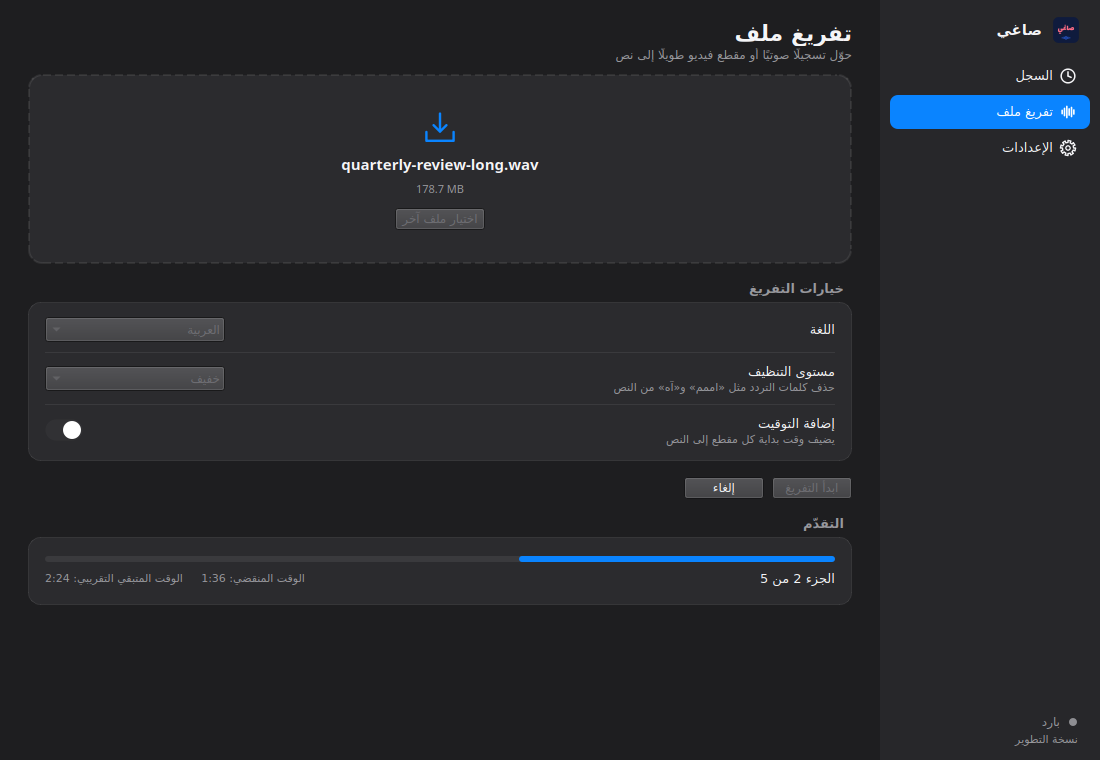
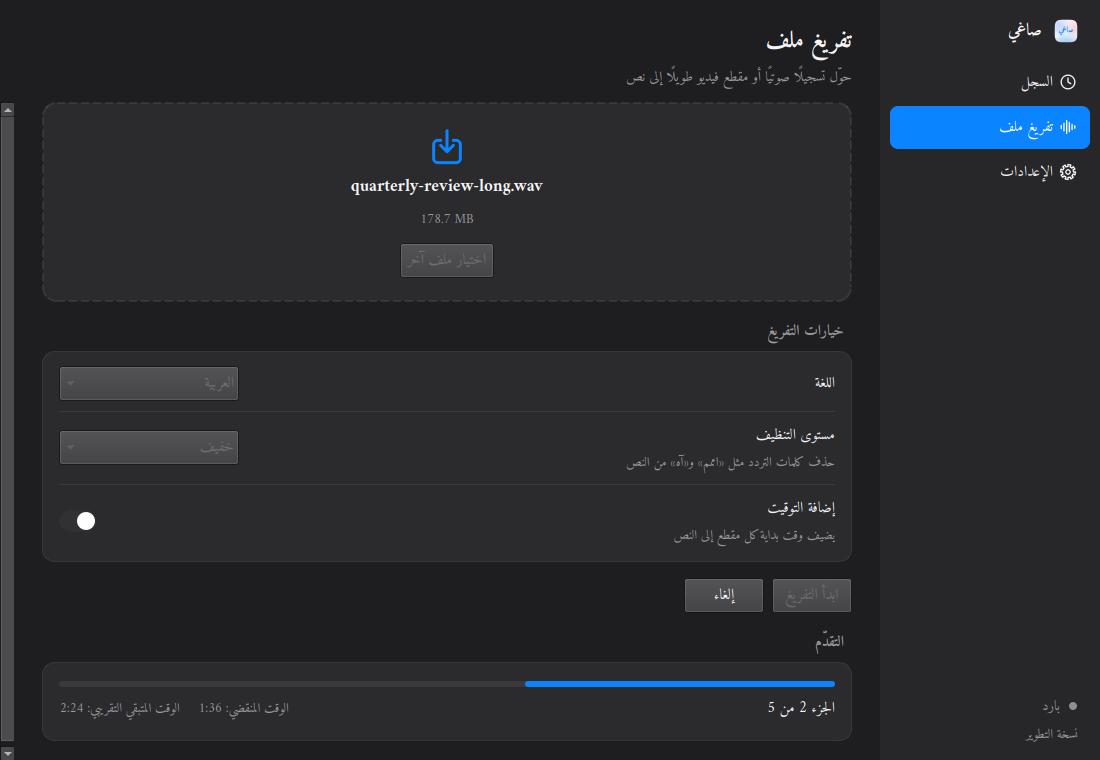
Amiri: size history rows from font metrics, set the font in pixels
History rows had a fixed height, so Amiri's taller lines overlapped; rows
now follow the fonts' real line heights. The interface font is set in
pixels so it matches the stylesheet's px sizes on every platform. Page
screenshots re-rendered with Amiri.

Claude-Session: https://claude.ai/code/session_018JFcirFJy3RFiv8JVpez8R

diff --git a/saghi-mac/saghi/ui/history_page.py b/saghi-mac/saghi/ui/history_page.py
@@ -19,7 +19,7 @@ from pathlib import Path
 from typing import Optional
 
 from PySide6.QtCore import QRectF, QSize, Qt
-from PySide6.QtGui import QColor, QFontMetrics, QPainter, QPen
+from PySide6.QtGui import QColor, QFont, QFontMetrics, QPainter, QPen
 from PySide6.QtWidgets import (
     QApplication,
     QFileDialog,
@@ -70,10 +70,26 @@ def _format_created_at(iso_str: str) -> str:
 class _EntryDelegate(QStyledItemDelegate):
     """Paints each entry as a rounded two-line row; the selected one gets the accent capsule."""
 
-    _H = 58
+    # Row height follows the fonts' real line heights: Amiri (the default
+    # interface font) has much taller ascenders/descenders than the system
+    # font, so a fixed height made the two lines overlap.
+    _PAD_Y = 8
+    _GAP = 2
+
+    @staticmethod
+    def _fonts():
+        body = QApplication.font()
+        small = QFont(body)
+        if small.pixelSize() > 0:
+            small.setPixelSize(max(9, small.pixelSize() - 2))
+        else:
+            small.setPointSizeF(max(8.0, small.pointSizeF() - 2))
+        return small, body
 
     def sizeHint(self, option, index) -> QSize:  # noqa: N802 -- Qt override
-        return QSize(option.rect.width(), self._H)
+        small, body = self._fonts()
+        h = QFontMetrics(small).height() + self._GAP + QFontMetrics(body).height() + 2 * self._PAD_Y + 4
+        return QSize(option.rect.width(), h)
 
     def paint(self, painter: QPainter, option, index) -> None:
         t = theme.tokens()
@@ -93,11 +109,10 @@ class _EntryDelegate(QStyledItemDelegate):
 
         primary = QColor(t.accent_text) if selected else QColor(t.text)
         secondary = QColor(255, 255, 255, 200) if selected else QColor(t.text_secondary)
-        text_rect = rect.adjusted(12, 8, -12, -8)
+        text_rect = rect.adjusted(12, self._PAD_Y, -12, -self._PAD_Y)
         align = Qt.AlignmentFlag.AlignRight if option.direction == Qt.LayoutDirection.RightToLeft else Qt.AlignmentFlag.AlignLeft
 
-        small = QApplication.font()
-        small.setPointSizeF(max(8.0, small.pointSizeF() - 2))
+        small, body = self._fonts()
         painter.setFont(small)
         painter.setPen(QPen(secondary))
         top = f"{index.data(_ROLE_DATE)}  ·  {index.data(_ROLE_META)}"
@@ -108,13 +123,12 @@ class _EntryDelegate(QStyledItemDelegate):
             fm_small.elidedText(top, Qt.TextElideMode.ElideRight, int(text_rect.width())),
         )
 
-        body = QApplication.font()
         painter.setFont(body)
         painter.setPen(QPen(primary))
         fm = QFontMetrics(body)
         snippet = index.data(_ROLE_SNIPPET) or ""
         painter.drawText(
-            QRectF(text_rect.left(), text_rect.bottom() - fm.height(), text_rect.width(), fm.height()),
+            QRectF(text_rect.left(), text_rect.top() + fm_small.height() + self._GAP, text_rect.width(), fm.height()),
             int(align | Qt.AlignmentFlag.AlignVCenter),
             fm.elidedText(snippet, Qt.TextElideMode.ElideRight, int(text_rect.width())),
         )

diff --git a/saghi-mac/saghi/ui/theme.py b/saghi-mac/saghi/ui/theme.py
@@ -33,7 +33,7 @@ logger = logging.getLogger("saghi.ui.theme")
 
 _FONT_DIR = Path(__file__).parent / "assets" / "fonts"
 _AMIRI_BOOST = 2
-_AMIRI_POINT_SIZE = 15.0
+_AMIRI_PIXEL_SIZE = 15
 _amiri_family: Optional[str] = None
 _system_font: Optional[QFont] = None
 _ui_font = "system"
@@ -61,7 +61,10 @@ def apply_ui_font(app, choice: str) -> str:
     family = load_bundled_fonts() if choice == "amiri" else None
     if family:
         font = QFont(family)
-        font.setPointSizeF(_AMIRI_POINT_SIZE)
+        # Pixel size, not points: macOS maps 1pt to 1 logical px, other
+        # platforms (96 dpi) would make points a third larger than the
+        # stylesheet's px sizes.
+        font.setPixelSize(_AMIRI_PIXEL_SIZE)
         app.setFont(font)
         _ui_font = "amiri"
     else:

diff --git a/saghi-mac/dev/grab_screens.py b/saghi-mac/dev/grab_screens.py
@@ -167,6 +167,10 @@ def main() -> int:
     # pop-ups are drawn natively by macOS instead (see ui/theme.py).
     app.setStyle("Fusion")
     _set_scheme(app, dark=False)
+    # Same interface font as the real app (ui/app.py build()).
+    from saghi.ui import theme
+
+    theme.apply_ui_font(app, SettingsManager().current.ui_font)
 
     settings_manager = SettingsManager()
     engine = SaghiEngine(DEFAULT_MODEL_DIR)
